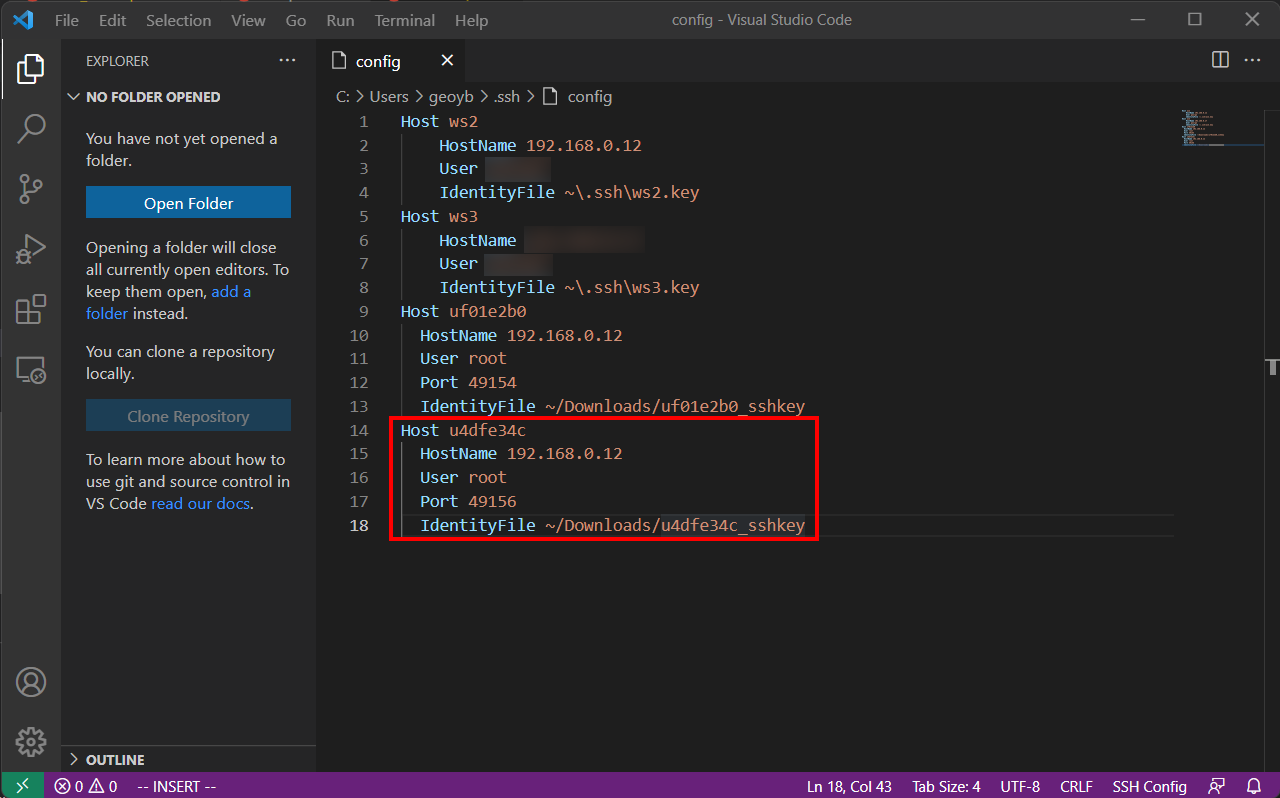
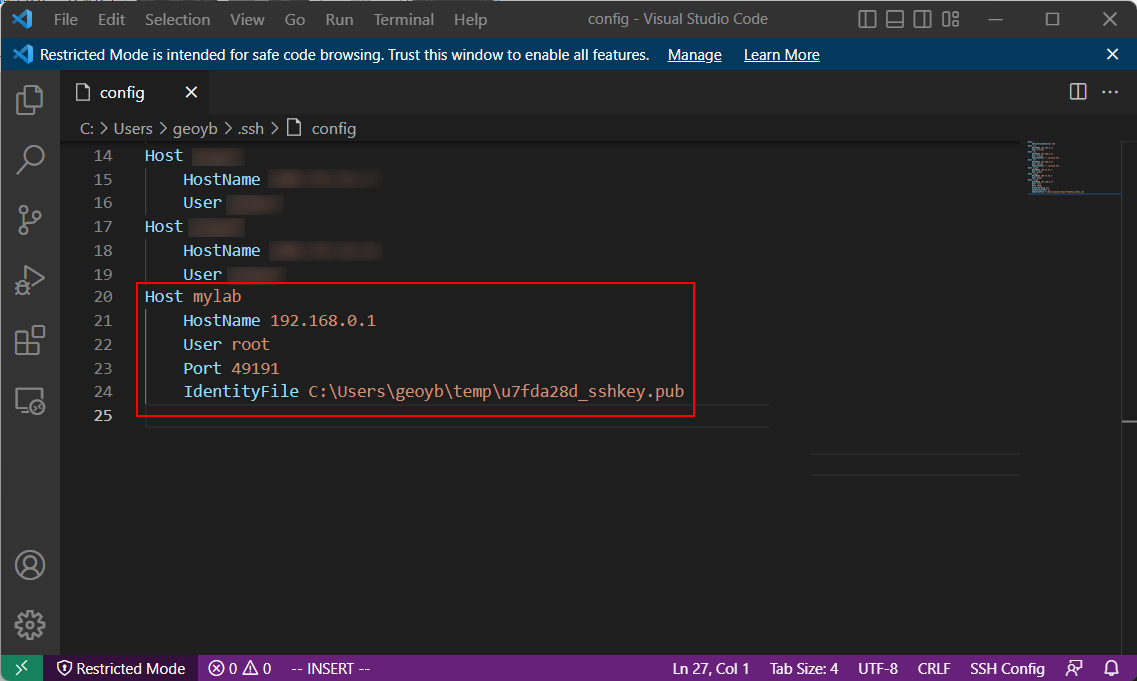
Update the instructions according to the new lab SSH feature

diff --git a/user/lab.rst b/user/lab.rst
@@ -169,41 +169,19 @@ To delete a lab:
 SSH into a Lab
 ==============
 
-MLSteam also support accessing a lab with SSH,
-which is handy for users to use their favorite editors or tools to accelerate ML design and experiments.
-This section will show instructions for VSCode.
+MLSteam also supports accessing a lab with SSH,
+which is handy for developers to use their favorite editors or tools to accelerate ML design and experiments.
 
-.. note::
-    This feature is only available in labs running in SSH-enabled containers.
-    E.g., labs created from the *Pytorch Cifar10* are SSH-enabled by default.
+Preparation
+-----------
 
-    You may also install an SSH server to enable SSH in a Ubuntu-based container
-    by running the commands in a terminal:
+Enable SSH access to a lab.
 
-    .. code-block:: shell
+#) In the lab's page, open the settings side bar by clicking on *settings* button on the top.
 
-        apt-get update
-        apt-get install openssh-server
+    .. image:: /_static/imgs/common/btn_settings_3.png
 
-VSCode
-------
-
-Preparation:
-
-#) Install `VSCode <https://code.visualstudio.com/Download>`_ on the local computer.
-#) Open VSCode, search and install the `Remote SSH <https://code.visualstudio.com/docs/remote/ssh>`_ extension.
-
-    .. image:: /_static/imgs/user/lab/install_vscode_remote_ssh.png
-        :width: 480
-
-To enable SSH access to a lab:
-
-#) Open the lab to access.
-#) Click on the settings button in the dataset side bar.
-
-    .. image:: /_static/imgs/common/btn_settings.png
-
-#) Create a SSH access key by clicking on the *add* button in the *SSH Key* section.
+#) Create a SSH access key if none exists by clicking on the *add* button in the *SSH Key* section.
 
     .. image:: /_static/imgs/common/btn_add.png
 
@@ -228,42 +206,87 @@ To enable SSH access to a lab:
         .. code-block:: shell
 
             chmod 600 /path/to/access/key/file
-            # for example, chmod 600 ~/Downloads/u4dfe34c_sshkey
+            # for example, chmod 600 ~/Downloads/u7fda28d_sshkey.pub
 
-#) View the SSH configuration by clicking on the *view* icon.
+   .. _ssh-info:
+
+#) View the SSH information by clicking on the *view* icon.
 
     .. image:: /_static/imgs/user/lab/add_ssh_key_3.png
         :width: 300
 
-#) Copy the SSH configuration text displayed.
-
     .. image:: /_static/imgs/user/lab/add_ssh_key_4.png
         :width: 300
 
-#) Open the SSH configuration file on the local computer.
-   Append the configuration text in the previous step. Save the file.
+#) Now, you could access the lab using an SSH client tool,
+   such as :ref:`command-line <ssh-commandline>`, :ref:`VSCode <ssh-vscode>`,
+   or :ref:`MobaXterm <ssh-mobaxterm>`.
+
+.. _ssh-commandline:
+
+Command Line
+------------
+
+#) Open a command-line console.
+#) Copy the command from the :ref:`SSH command line <ssh-info>` displayed in the lab page,
+   and run it in the console.
+
+    .. note::
+        Change ``SSH_ACCESS_KEY_FILE`` to the actual SSH key file location.
+
+        .. code-block:: shell
+
+            ssh -X -p SSH_PORT -i SSH_ACCESS_KEY_FILE USER@SSH_HOST
+            # for example, ssh -X -p 49191 -i ~/Downloads/u7fda28d_sshkey.pub root@192.168.0.1
+
+        You may receive a warning message ``The authenticity of host ... can't be established.``
+        for the first time you make an SSH connection to the lab. Enter ``yes`` to continue connecting.
+
+.. _ssh-vscode:
+
+VSCode
+------
+
+#) Install `VSCode <https://code.visualstudio.com/Download>`_ on the local computer.
+#) Open VSCode, search and install the `Remote SSH <https://code.visualstudio.com/docs/remote/ssh>`_ extension.
+
+    .. image:: /_static/imgs/user/lab/install_vscode_remote_ssh.png
+        :width: 480
+
+#) Edit the SSH configuration file and add the configuration
+   according to the :ref:`SSH command line <ssh-info>` displayed in the lab page.
 
     .. image:: /_static/imgs/user/lab/add_ssh_key_5.png
         :width: 480
 
     .. note::
-        #) The SSH configuration file on a Windows computer is at ``C:\Users\{USER-NAME}\.ssh\config``.
+        The SSH configuration file on a Windows computer is at ``C:\Users\{USER-NAME}\.ssh\config``.
+        On a MacOS or Linux computer, it is at ``~/.ssh/ssh_config``.
 
-           On a MacOS or Linux computer, it is at ``~/.ssh/ssh_config``.
-        #) The SSH configuration text displayed by MLSteam assumes
-           the access key is saved in the ``Downloads`` directory.
-           If the access key file is renamed or saved in another directory,
-           replace the settings of ``IdentityFile`` by the actual file location.
-        #) If the access key file is saved with additional file name extension (such as ``.txt``),
-           append the actual file extension in the ``IdentityFile`` setting.
+        SSH configuration format:
 
-Now, we are ready to access the lab with VSCode.
+        .. code-block::
+
+            Host UNIQUE_SSH_CONNECTION_NAME
+                HostName SSH_HOST_IP_OR_DOMAIN_NAME
+                User USERNAME
+                Port SSH_PORT
+                IdentityFile SSH_ACCESS_KEY_FILE
+
+        For example,
+
+        .. code-block::
+
+            Host mylab
+                HostName 192.168.0.1
+                User root
+                Port 49191
+                IdentityFile C:\Users\geoyb\temp\u7fda28d_sshkey.pub
 
 #) In VSCode, open the *Remote Explorer* panel on the left.
-   The SSH host we just configured will be displayed in the *SSH TARGETS* section.
 
     .. image:: /_static/imgs/user/lab/open_ssh_vscode_1.png
-        :width: 300
+        :width: 480
 
     .. note::
         If the SSH host has not been displayed, refresh the list by clicking on the *refresh* button.
@@ -279,7 +302,7 @@ Now, we are ready to access the lab with VSCode.
     #) Are you sure you want to continue? ``Continue``
 
     .. image:: /_static/imgs/user/lab/open_ssh_vscode_3.png
-        :width: 600
+        :width: 480
 
 #) Wait while VSCode is initializing the remote host.
 #) Finally, open the terminal by clicking on the menu item:
@@ -287,7 +310,22 @@ Now, we are ready to access the lab with VSCode.
 #) Now, you could run commands in the lab through the terminal.
 
     .. image:: /_static/imgs/user/lab/open_ssh_vscode_4.png
-        :width: 600
+        :width: 480
+
+.. _ssh-mobaxterm:
+
+MobaXterm
+---------
+
+Windows users may also use `MobaXterm <https://mobaxterm.mobatek.net/download.html>`_
+to make SSH connection.
+
+.. note::
+    In session settings, specify ``SSH_HOST``, ``USERNAME``, ``SSH_PORT``, ``X11 forwarding``,
+    and ``SSH_ACCESS_KEY`` according to the :ref:`SSH command line <ssh-info>` displayed in the lab page.
+
+    .. image:: /_static/imgs/user/lab/set_x_forward_1.png
+        :width: 480
 
 .. _lab-hyperparameter-tuning:
 
@@ -558,66 +596,25 @@ To increase (or decrease) the shared memory size in a lab:
 
 #) The lab will be restarted with the new setting.
 
-Q: How to access Linux GUI (X Window System) applications installed in the lab?
--------------------------------------------------------------------------------
+Q: How to access Linux Graphics User Interface (X Window System) applications installed in the lab?
+---------------------------------------------------------------------------------------------------
 
-To run a Linux GUI application and access it at the local desktop environment:
-
-#) Set up the *SSH service* in the lab.
-
-    #) Install the SSH server.
-
-        .. code-block:: shell
-
-            apt-get update
-            apt-get install openssh-server
-
-    #) Ensure the ``/etc/ssh/sshd_config`` file has the following settings:
-
-        .. code-block::
-
-            X11Forwarding yes
-            X11UseLocalhost no
-
-    #) Start the SSH service.
-
-        .. code-block:: shell
-
-            /etc/init.d/ssh start
+To run a Linux application and access it at the local desktop environment:
 
 #) :ref:`Set up SSH access <ssh-into-lab>` to the lab.
 
     #) Add an SSH access key in the lab if none exists.
     #) Download the SSH access key and save it at client side.
-    #) Copy the SSH configuration to the client side,
-       and **add an additional line** ``ForwardX11 yes``.
+    #) (Linux or macOS users) Change the file permission mode for the SSH access key.
+    #) Copy the SSH access command.
 
-        For example,
+#) Connect to the lab from the client side.
 
-        .. image:: /_static/imgs/user/lab/set_x_forward_1.png
-          :width: 300
+    Run the SSH access command (copied from the previous step) in a :ref:`commandline console <ssh-commandline>`,
+    or with a user-friendly software such as :ref:`MobaXterm <ssh-mobaxterm>`.
 
-#) Set up the *X Window Server* at client side (*Windows* only).
-
-    #) Install and start the `Xming X Server for Windows <https://sourceforge.net/projects/xming/>`_.
-
-#) Connect to the lab.
-
-    #) Connect to the lab and check the ``$DISPLAY`` variable is set.
-
-        .. code-block:: shell
-
-            ssh SSH_Connection_Name
-            # for example, ssh uab12345
-            echo $DISPLAY
-            # output example, "4703aa1613fd:10.0"
-
-        .. note::
-            Windows users may also use `PuTTY <https://www.putty.org/>`_ to make SSH connection.
-            Ensure that ``X11 forwarding`` is enabled.
-
-            .. image:: /_static/imgs/user/lab/set_x_forward_2.png
-                :width: 480
-
-#) Now, you may run the desired Linux GUI application through the SSH connection at client side,
+#) Now, you may run the desired Linux application through the SSH connection at client side,
    and the window will be displayed at client side.
+
+    .. image:: /_static/imgs/user/lab/set_x_forward_2.png
+        :width: 480
